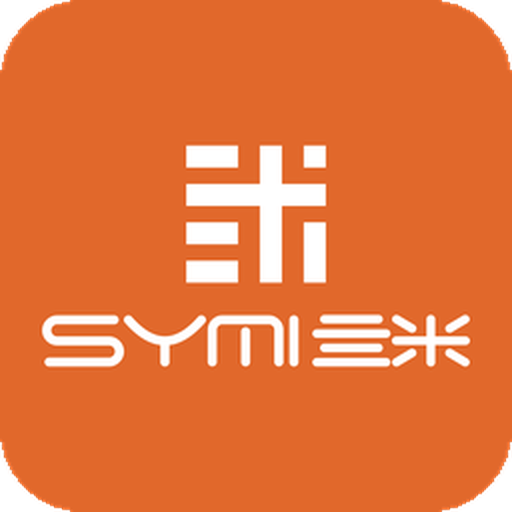
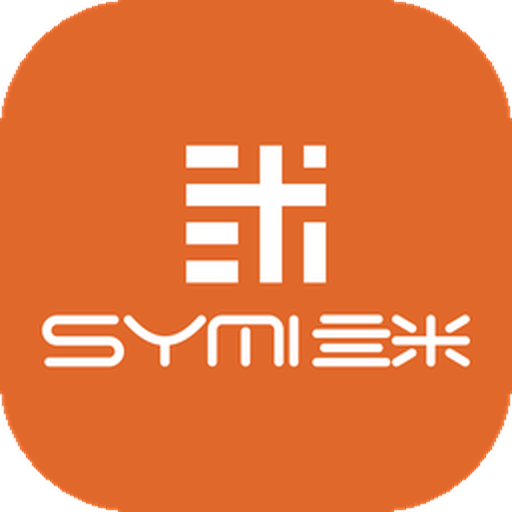
Fix the configuration wizard and widen the supported versions
The forms were shown with a keyword that Home Assistant does not accept, so
opening the configuration of an entry failed with a 500 error. The meaning of
the fields is now part of the step descriptions, which Home Assistant shows
above the form.

The brand images get a larger corner radius.

The lowest supported version is 2024.6.0, the first release that keeps the
runtime data of a config entry. The generic ConfigEntry is no longer needed
for that, so the integration also works on the versions before the generic
ConfigEntry was added.

diff --git a/custom_components/symi_modbus/config_flow.py b/custom_components/symi_modbus/config_flow.py
@@ -48,22 +48,6 @@ from .frames import FUNCTION_READ_COILS, build_read_request
 
 _LOGGER = logging.getLogger(__name__)
 
-# The descriptions shown below every field of the config flow.
-DATA_DESCRIPTIONS = {
-    CONF_TYPE: "The kind of connection to the Modbus master.",
-    CONF_HOST: "The host name or IP address of the Modbus gateway.",
-    CONF_PORT: "The port of the Modbus gateway.",
-    CONF_FRAME: "The frame format the gateway speaks.",
-    CONF_BAUDRATE: "The speed of the serial line in baud.",
-    CONF_BYTESIZE: "The number of data bits of the serial line.",
-    CONF_PARITY: "The parity of the serial line.",
-    CONF_STOPBITS: "The number of stop bits of the serial line.",
-    CONF_SLAVE: "The unit ID of the device on this connection.",
-    CONF_COIL_COUNT: "The number of coils the device has.",
-    ADD_MORE_SLAVES: "Add another device on the same connection.",
-    CONF_SCAN_INTERVAL: "The period of one round over all slaves of this master.",
-}
-
 CONNECTION_TYPE_SCHEMA = vol.Schema(
     {
         vol.Required(CONF_TYPE, default=CONF_TCP): vol.In(
@@ -180,7 +164,6 @@ class SymiModbusConfigFlow(config_entries.ConfigFlow, domain=DOMAIN):
         return self.async_show_form(
             step_id="user",
             data_schema=CONNECTION_TYPE_SCHEMA,
-            data_description=DATA_DESCRIPTIONS,
         )
 
     async def async_step_tcp(self, user_input: dict | None = None) -> config_entries.ConfigFlowResult:
@@ -197,7 +180,6 @@ class SymiModbusConfigFlow(config_entries.ConfigFlow, domain=DOMAIN):
         return self.async_show_form(
             step_id="tcp",
             data_schema=TCP_CONNECTION_SCHEMA,
-            data_description=DATA_DESCRIPTIONS,
             errors=errors,
         )
 
@@ -252,7 +234,6 @@ class SymiModbusConfigFlow(config_entries.ConfigFlow, domain=DOMAIN):
         return self.async_show_form(
             step_id="serial_manual",
             data_schema=SERIAL_MANUAL_PATH_SCHEMA,
-            data_description=DATA_DESCRIPTIONS,
             errors=errors,
         )
 
@@ -269,7 +250,6 @@ class SymiModbusConfigFlow(config_entries.ConfigFlow, domain=DOMAIN):
         return self.async_show_form(
             step_id="serial_params",
             data_schema=SERIAL_PARAMS_SCHEMA,
-            data_description=DATA_DESCRIPTIONS,
         )
 
     async def async_step_slave(self, user_input: dict | None = None) -> config_entries.ConfigFlowResult:
@@ -285,7 +265,6 @@ class SymiModbusConfigFlow(config_entries.ConfigFlow, domain=DOMAIN):
                 return self.async_show_form(
                     step_id="slave",
                     data_schema=self._slave_schema(user_input),
-                    data_description=DATA_DESCRIPTIONS,
                     errors={"base": "slave_already_added"},
                 )
             self._slaves[slave] = {"start": 0, "count": count}
@@ -297,7 +276,6 @@ class SymiModbusConfigFlow(config_entries.ConfigFlow, domain=DOMAIN):
         return self.async_show_form(
             step_id="slave",
             data_schema=self._slave_schema(),
-            data_description=DATA_DESCRIPTIONS,
         )
 
     def _slave_schema(self, user_input: dict | None = None) -> vol.Schema:
@@ -324,7 +302,6 @@ class SymiModbusConfigFlow(config_entries.ConfigFlow, domain=DOMAIN):
             return self.async_show_form(
                 step_id="slave",
                 data_schema=self._slave_schema(),
-                data_description=DATA_DESCRIPTIONS,
                 errors={"base": "no_slaves"},
             )
 
@@ -363,7 +340,6 @@ class SymiModbusConfigFlow(config_entries.ConfigFlow, domain=DOMAIN):
             return self.async_show_form(
                 step_id="slave",
                 data_schema=self._slave_schema(),
-                data_description=DATA_DESCRIPTIONS,
                 errors={"base": "cannot_connect"},
             )
 
@@ -427,5 +403,4 @@ class SymiModbusOptionsFlow(config_entries.OptionsFlow):
         return self.async_show_form(
             step_id="init",
             data_schema=vol.Schema(options),
-            data_description=DATA_DESCRIPTIONS,
         )

diff --git a/custom_components/symi_modbus/__init__.py b/custom_components/symi_modbus/__init__.py
@@ -2,6 +2,7 @@
 from __future__ import annotations
 
 import logging
+from typing import TypeAlias
 
 from homeassistant.config_entries import ConfigEntry
 from homeassistant.const import Platform
@@ -27,8 +28,8 @@ PLATFORMS: list[Platform] = [Platform.SWITCH]
 
 CONFIG_SCHEMA = cv.config_entry_only_config_schema(DOMAIN)
 
-type SymiModbusConfigEntry = ConfigEntry[ModbusHub]
-
+# The hub of an entry is kept in its runtime data.
+SymiModbusConfigEntry: TypeAlias = ConfigEntry
 
 async def _async_update_listener(hass: HomeAssistant, entry: ConfigEntry) -> None:
     """Reload the config entry when options change (e.g. scan interval)."""

diff --git a/scripts/generate_brand.py b/scripts/generate_brand.py
@@ -30,7 +30,7 @@ ICON_SIZE = 256
 LOGO_HEIGHT = 256
 
 # The corner radius as a share of the shorter side.
-CORNER_RADIUS = 0.16
+CORNER_RADIUS = 0.26
 
 
 def _flatten(image: Image.Image, background: tuple[int, int, int, int]) -> Image.Image:

diff --git a/README.md b/README.md
@@ -9,8 +9,8 @@ One config entry describes **one Modbus master** (a serial port or a TCP endpoin
 
 | Item | Value |
 |------|--------|
-| Version | **2.1.0** |
-| Home Assistant | **2024.11.0** or newer (developed against 2026.10.2) |
+| Version | **2.1.1** |
+| Home Assistant | **2024.6.0** or newer (developed against 2026.10.2, verified on 2026.7.4 and 2026.9.1) |
 | Python dependency | `pyserial`, `pyserial-asyncio-fast` (declared in `manifest.json`) |
 
 ## Features
@@ -165,6 +165,15 @@ docker run --rm -v "$PWD:/work" -w /work homeassistant/home-assistant:stable \
   timing of every round, the availability per slave and the memory growth.
 
 ## Changelog
+
+### 2.1.1
+
+- Fixes the configuration wizard, which failed with a 500 error because the form was shown with a
+  keyword that Home Assistant does not accept. The meaning of the fields is now part of the step
+  descriptions.
+- The brand images get a larger corner radius.
+- The lowest supported Home Assistant version is 2024.6.0, the first release with the runtime
+  data of a config entry.
 
 ### 2.1.0
 
